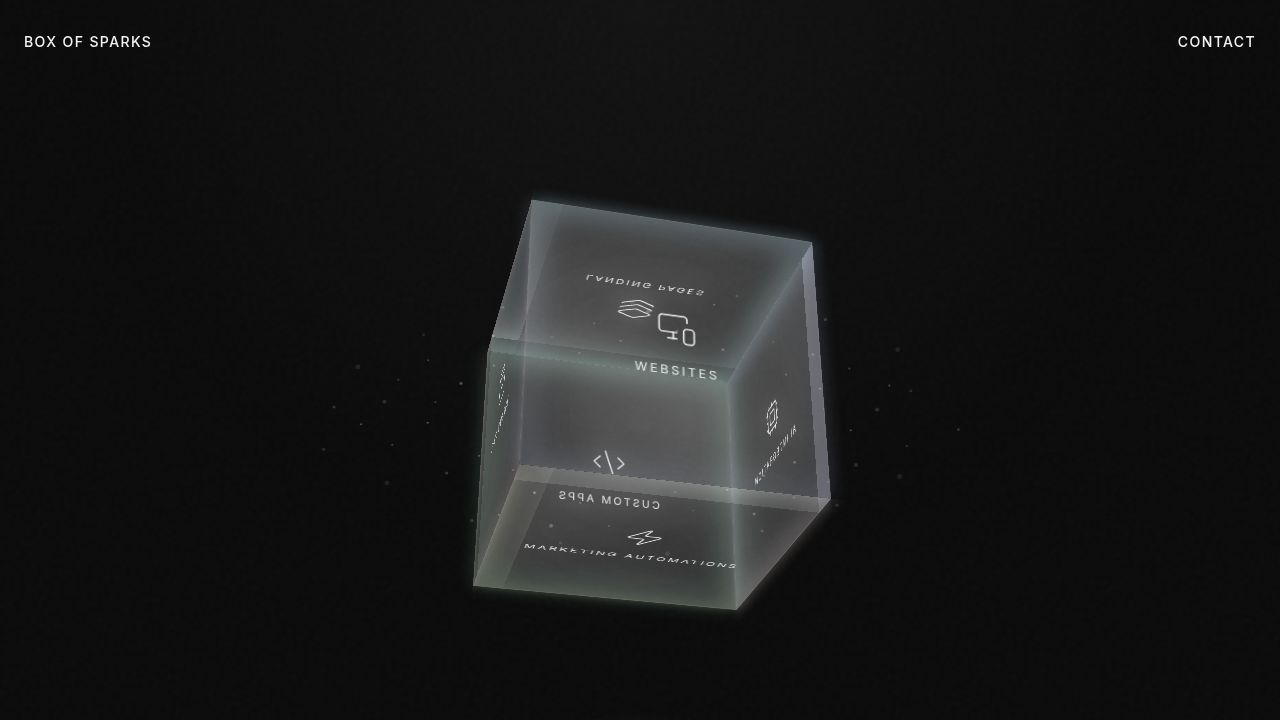
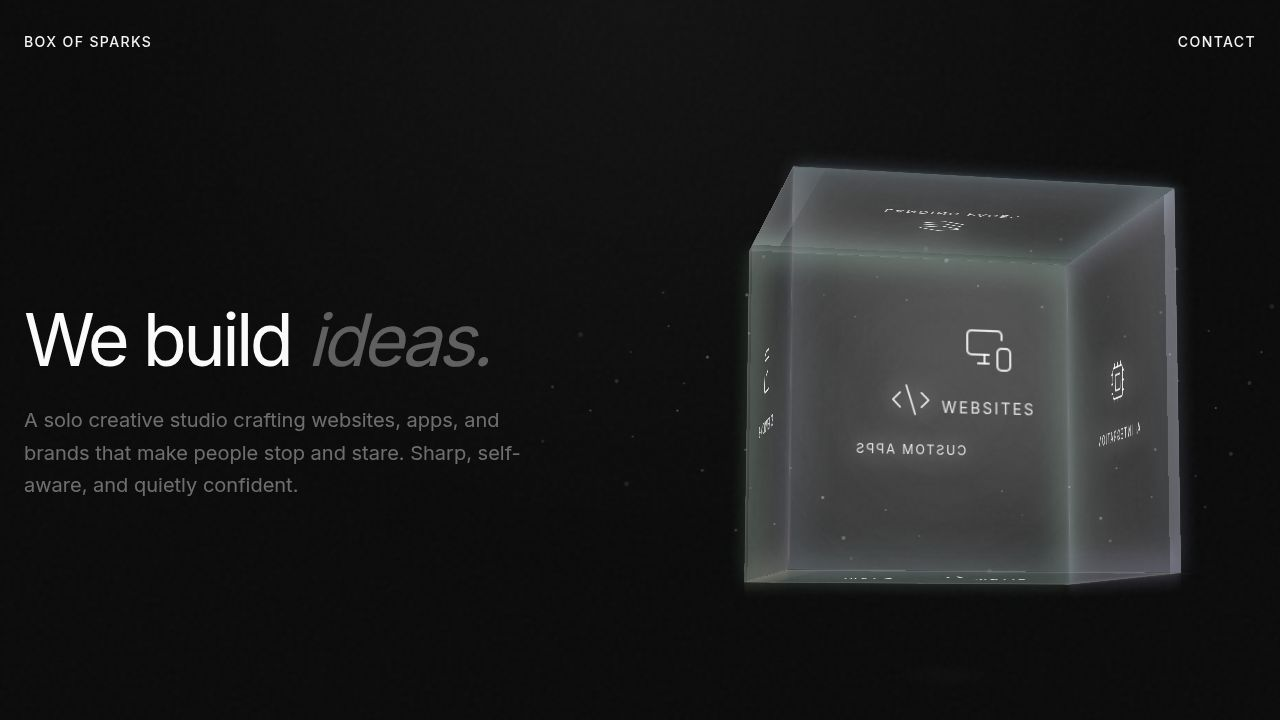
Remove the animated scroll indicator from the hero section
Remove the `motion.div` component responsible for the animated vertical scroll indicator from the hero section in `Home.tsx`.

Replit-Commit-Author: Agent
Replit-Commit-Session-Id: b63b2fce-747c-44bd-9587-11550947919e
Replit-Commit-Checkpoint-Type: full_checkpoint
Replit-Commit-Event-Id: 2a29aa9a-7f0d-46b3-b20b-dc6c424ea648
Replit-Commit-Screenshot-Url: https://storage.googleapis.com/screenshot-production-us-central1/76f978ba-1510-4c40-950c-e0ea22c62854/b63b2fce-747c-44bd-9587-11550947919e/GeJku3v
Replit-Helium-Checkpoint-Created: true

Changed region(s): [[0.0, 0.2139, 0.9375, 0.8556]]

diff --git a/artifacts/box-of-sparks/src/pages/Home.tsx b/artifacts/box-of-sparks/src/pages/Home.tsx
@@ -332,22 +332,6 @@ export default function Home() {
           </motion.div>
         </div>
 
-        <motion.div
-          className="absolute bottom-10 left-1/2 -translate-x-1/2"
-          initial={{ opacity: 0 }}
-          animate={{ opacity: 1 }}
-          transition={{ delay: 1.8, duration: 1.4 }}
-        >
-          <div className="relative h-16 w-px overflow-hidden">
-            <div className="absolute inset-0 bg-white/10" />
-            <motion.div
-              className="absolute left-0 w-px bg-gradient-to-b from-transparent via-white/55 to-transparent"
-              style={{ height: "45%" }}
-              animate={{ top: ["-45%", "145%"] }}
-              transition={{ duration: 1.8, repeat: Infinity, ease: "easeInOut", repeatDelay: 0.5 }}
-            />
-          </div>
-        </motion.div>
       </section>
 
       {/* What We Do */}